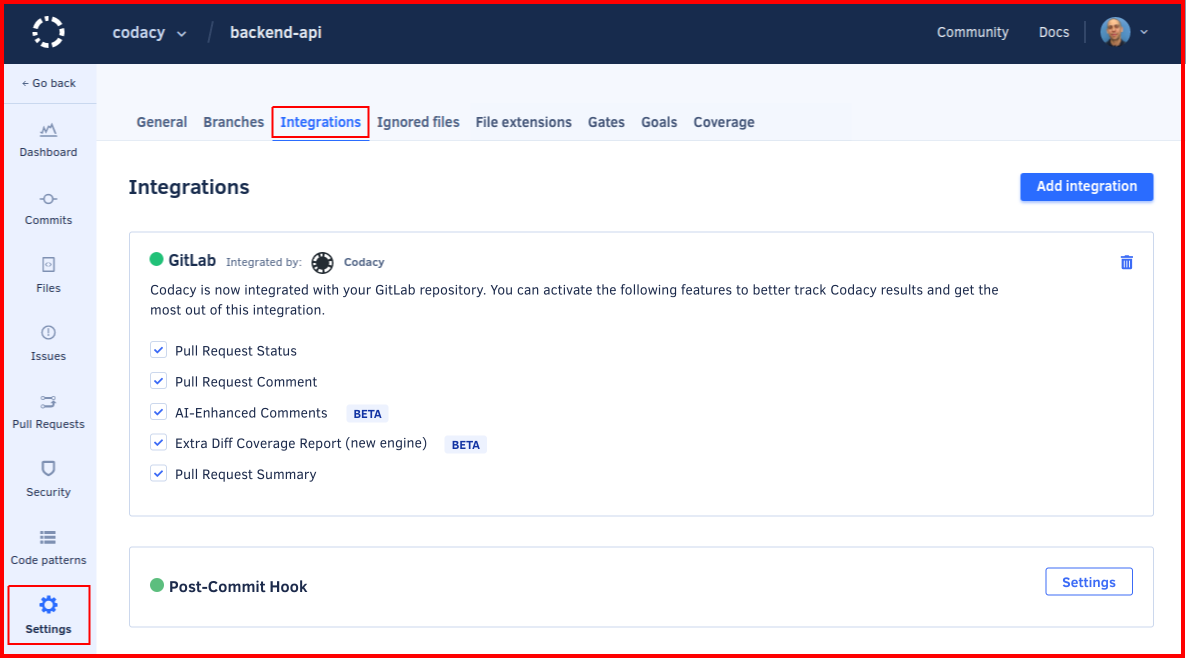
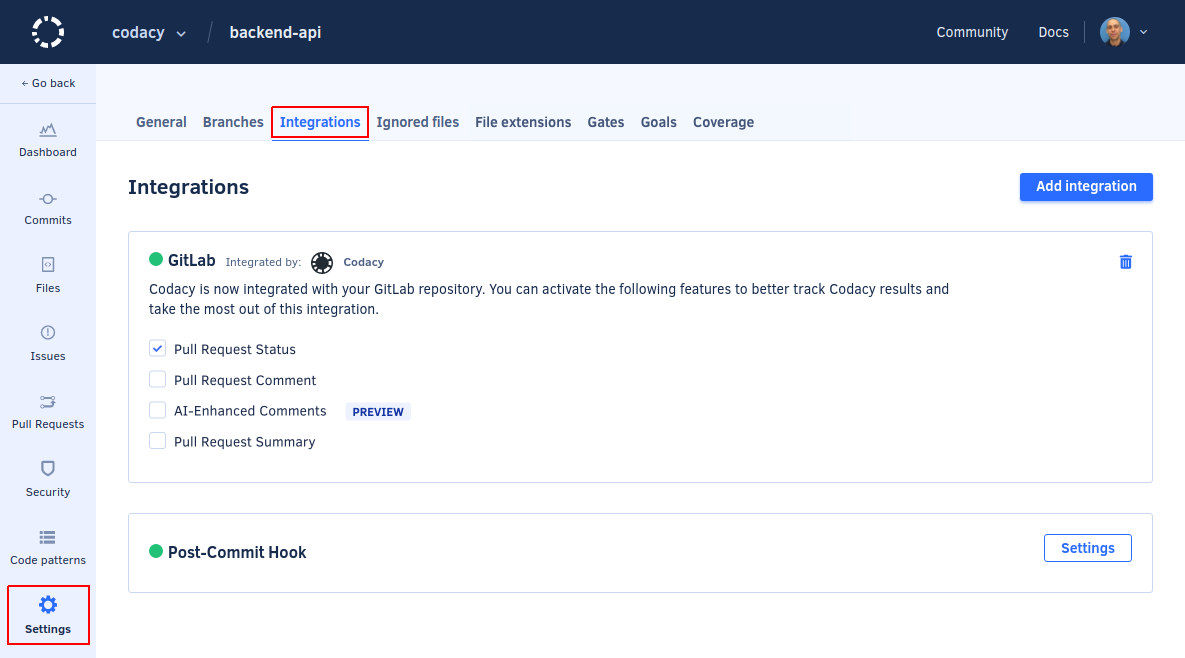
feat: Revert non-GitHub edits

diff --git a/docs/repositories-configure/integrations/bitbucket-integration.md b/docs/repositories-configure/integrations/bitbucket-integration.md
@@ -14,7 +14,7 @@ When the integration is enabled, you can also create pull request comments and J
 
 To enable the Bitbucket integration, open your repository **Settings**, tab **Integrations**. When you add a new repository, Codacy enables the integration using the [default settings for your organization](../../organizations/configuring-default-git-provider-integration-settings.md).
 
-![Bitbucket integration](images/bitbucket-integration.png)<!-- TODO ALA-619 Review screenshot -->
+![Bitbucket integration](images/bitbucket-integration.png)
 
 If you remove the integration, you can enable it again as follows:
 
@@ -59,12 +59,6 @@ Adds AI-enhanced comments with insights to help you fix identified issues.
 {% include-markdown "../../assets/includes/ai-info.md" %}
 
 ![AI-enhanced comment on GitLab](images/bitbucket-integration-ai-comment.png)
-
-### Extra Diff Coverage and Coverage Variation Report
-
-Adds two additional reports to your pull requests from the new, faster coverage engine, showing whether your diff coverage and coverage variation are up to standards or not as configured on the [quality gate rules](../../repositories-configure/adjusting-quality-gates.md) for your repository. You can then optionally [block merging pull requests that aren't up to standards](../../getting-started/integrating-codacy-with-your-git-workflow.md#blocking-pull-requests).
-
-![Extra diff coverage report](images/coverage-report-new-engine.png)<!-- TODO ALA-599 Review screenshot -->
 
 ### Pull Request Summary
 

diff --git a/docs/repositories-configure/integrations/gitlab-integration.md b/docs/repositories-configure/integrations/gitlab-integration.md
@@ -10,7 +10,7 @@ The GitLab integration incorporates Codacy on your existing Git provider workflo
 
 To enable the GitLab integration, open your repository **Settings**, tab **Integrations**. When you add a new repository, Codacy enables the integration using the [default settings for your organization](../../organizations/configuring-default-git-provider-integration-settings.md).
 
-![GitLab integration](images/gitlab-integration.png)<!-- TODO ALA-619 Review screenshot -->
+![GitLab integration](images/gitlab-integration.png)
 
 If you remove the integration, you can enable it again as follows:
 
@@ -55,12 +55,6 @@ Adds AI-enhanced comments with insights to help you fix identified issues.
 {% include-markdown "../../assets/includes/ai-info.md" %}
 
 ![AI-enhanced comment on GitLab](images/gitlab-integration-ai-comment.png)
-
-### Extra Diff Coverage and Coverage Variation Report
-
-Adds two additional reports to your merge requests from the new, faster coverage engine, showing whether your diff coverage and coverage variation are up to standards or not as configured on the [quality gate rules](../../repositories-configure/adjusting-quality-gates.md) for your project. You can then optionally [block merging merge requests that aren't up to standards](../../getting-started/integrating-codacy-with-your-git-workflow.md#blocking-pull-requests).
-
-![Extra diff coverage report](images/coverage-report-new-engine.png)<!-- TODO ALA-599 Review screenshot -->
 
 ### Pull Request Summary
 
